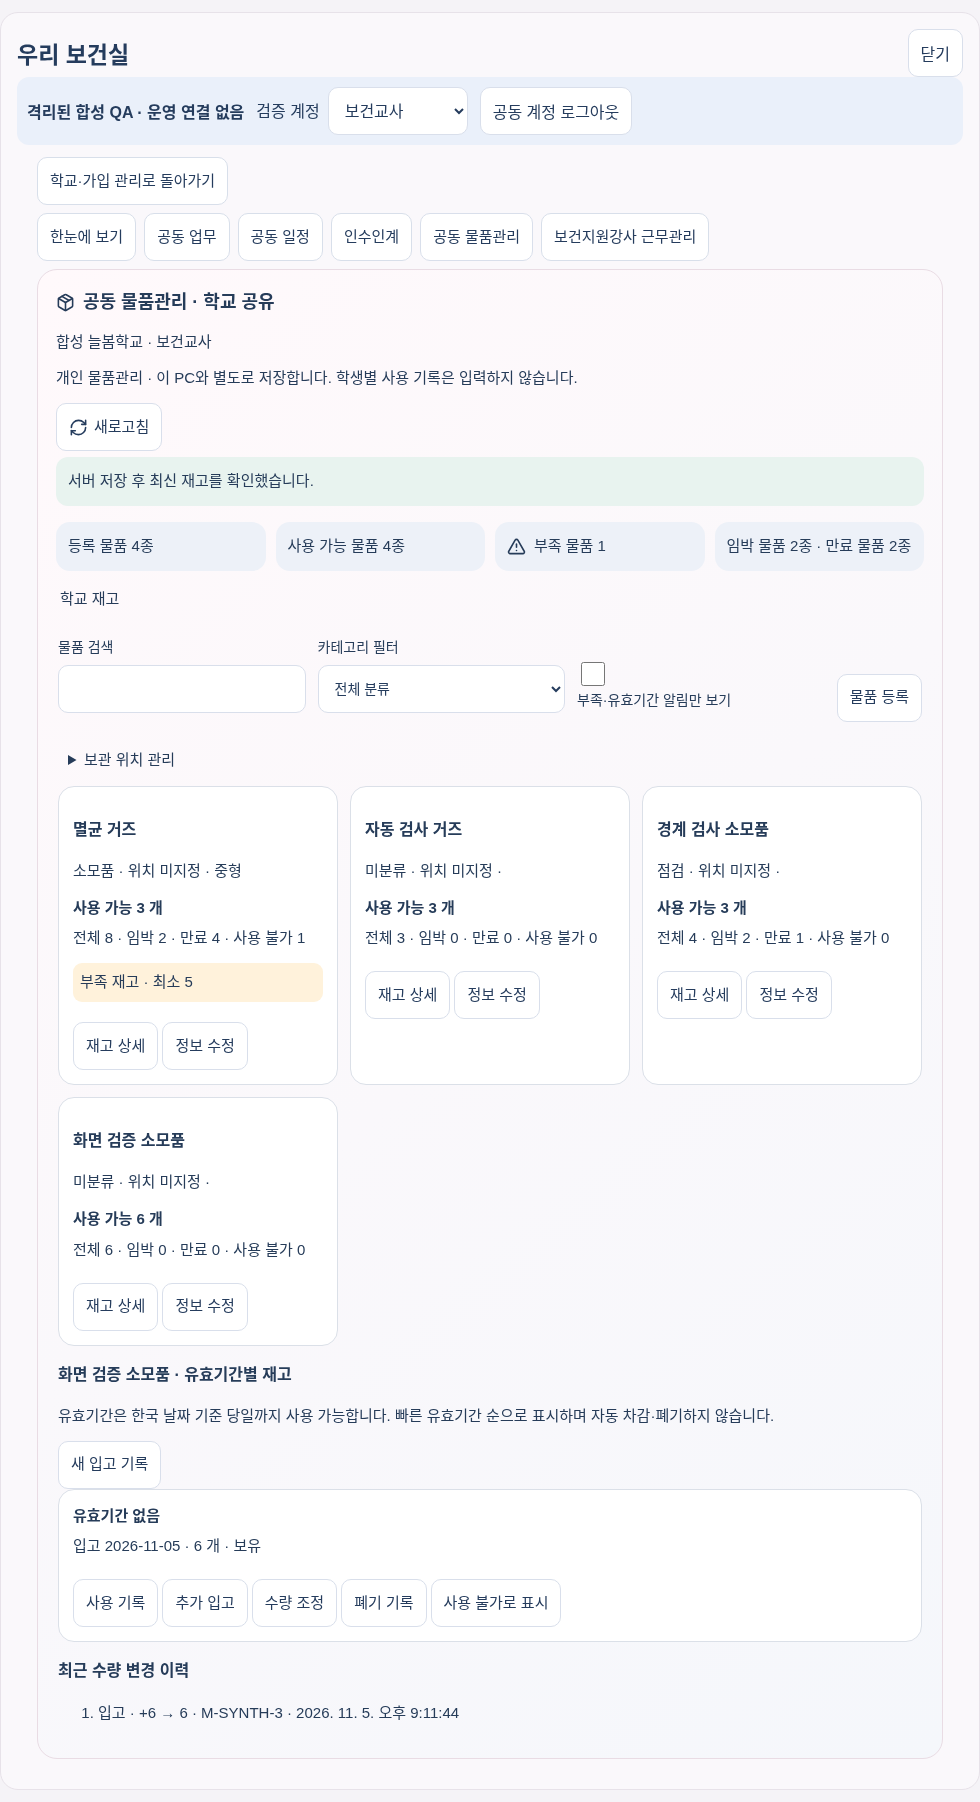
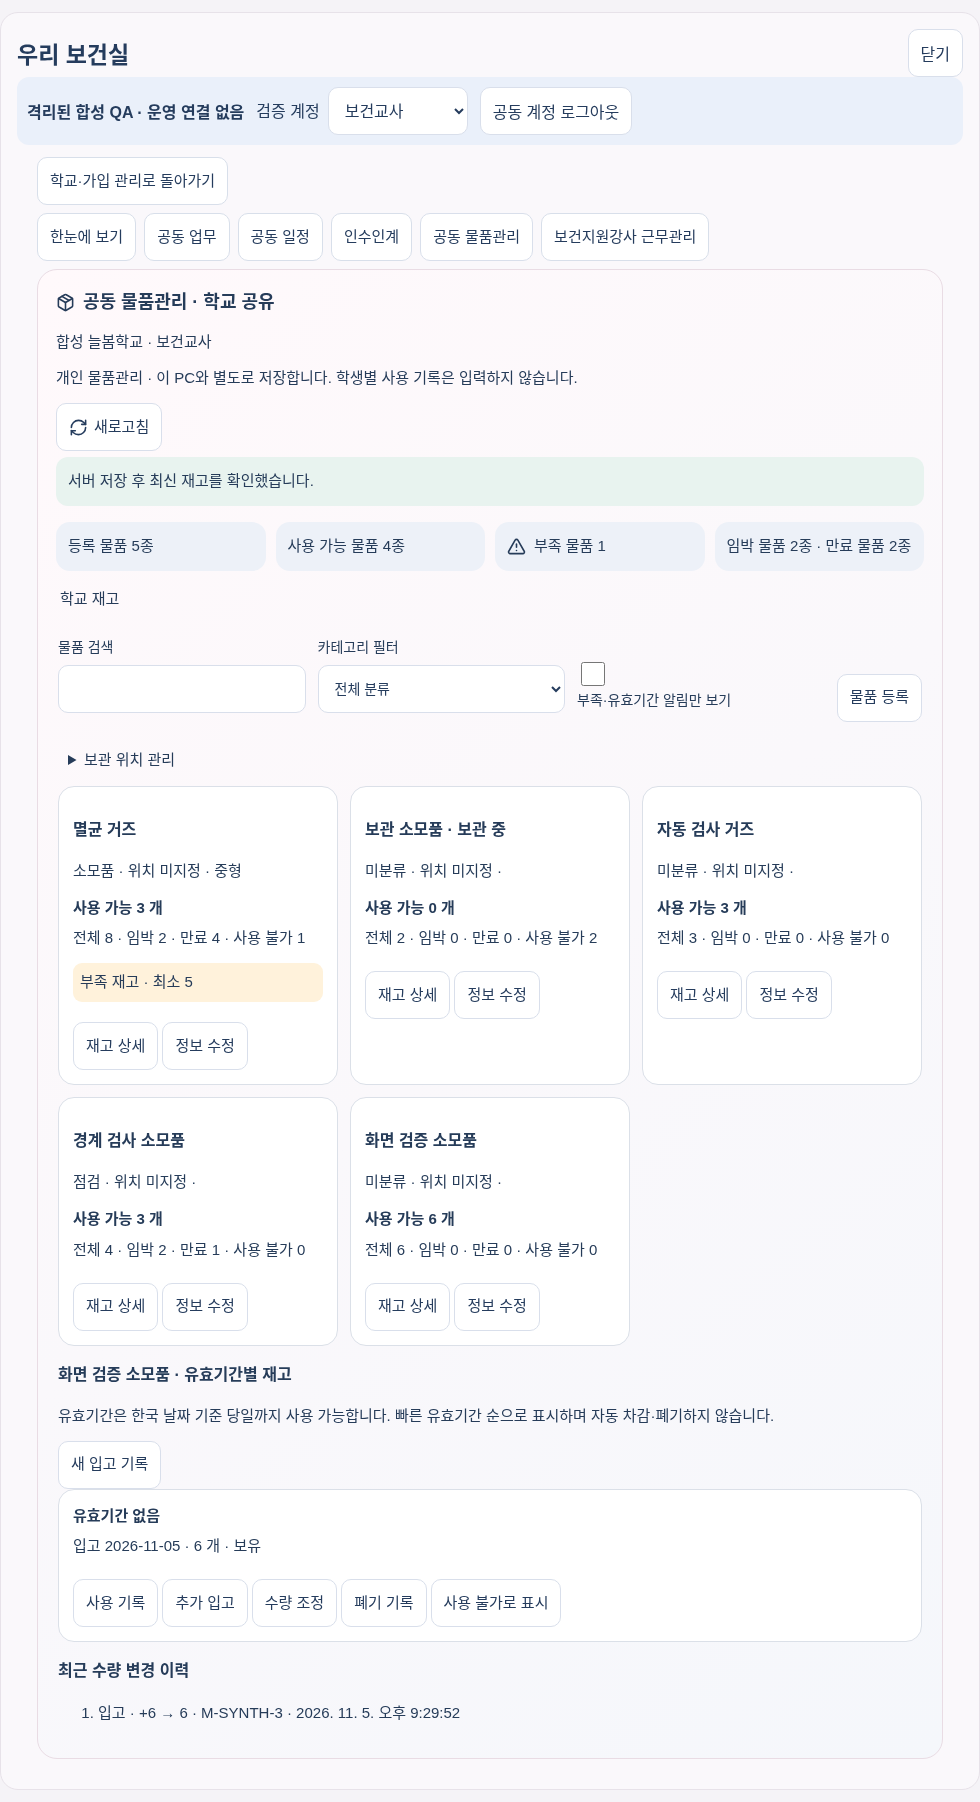
fix(workspace): honor inactive stock and scope assistant history

diff --git a/school-workspace/school07/ui/InventoryWorkspace.tsx b/school-workspace/school07/ui/InventoryWorkspace.tsx
@@ -17,6 +17,6 @@ export function InventoryWorkspace({bridge,school}:{bridge:Bridge;school:string}
  {s.item&&<section aria-label="물품 상세"><h3>{s.item.item_name} · 유효기간별 재고</h3><p>유효기간은 한국 날짜 기준 당일까지 사용 가능합니다. 빠른 유효기간 순으로 표시하며 자동 차감·폐기하지 않습니다.</p>{s.context?.receive&&<button onClick={()=>setMove({action:'receive'})}>새 입고 기록</button>}
  <div className="s07-lots">{s.lots.map(l=><article key={l.lot_id} aria-label={'재고 묶음 '+l.lot_id}><strong>{l.expiry_date?l.expiry_date+' · '+status[l.expiry_status]:status.NONE}</strong><p>입고 {l.received_date} · {l.quantity} {s.item?.unit} · {l.state==='UNUSABLE'?'사용 불가':'보유'}</p>{s.context?.use&&<button disabled={!usable(l)} onClick={()=>setMove({action:'use',lot:l})}>사용 기록</button>}{s.context?.receive&&<button disabled={l.state==='UNUSABLE'} onClick={()=>setMove({action:'receive',lot:l})}>추가 입고</button>}{s.context?.adjust&&<button onClick={()=>setMove({action:'adjust',lot:l})}>수량 조정</button>}{s.context?.dispose&&<button onClick={()=>setMove({action:'dispose',lot:l})}>폐기 기록</button>}{s.context?.manage&&<button onClick={()=>{if(window.confirm('재고 사용 가능 상태를 변경할까요?'))void submit('state',{item_id:s.item!.item_id,lot_id:l.lot_id,state:l.state==='AVAILABLE'?'UNUSABLE':'AVAILABLE'},l.version);}}>{l.state==='AVAILABLE'?'사용 불가로 표시':'사용 가능으로 표시'}</button>}</article>)}</div>
  {move&&<form className="s07-form" onSubmit={transaction}><h4>{({receive:'입고',use:'사용·출고',adjust:'실사 후 수량 조정',dispose:'폐기'}as Record<string,string>)[move.action]}</h4><label>{move.action==='adjust'?'조정 후 수량':'기록 수량'}<input name="quantity" type="number" min={move.action==='adjust'?0:.001} step=".001" max="1000000000" required/></label>{move.action==='receive'&&!move.lot&&<><label>유효기간 (없으면 비워 두기)<input name="expiry" type="date"/></label><label>입고일<input name="received" type="date" defaultValue={s.context?.today} max={s.context?.today}/></label></>}<label>운영 사유 (선택)<input name="reason" maxLength={80}/></label><p>학생·투약·처치·상담 정보는 기록하지 않습니다.</p><button>수량 저장</button><button type="button" onClick={()=>setMove(undefined)}>기록 닫기</button></form>}
- <h3>최근 수량 변경 이력</h3><ol>{s.movements.map(h=><li key={h.movement_id}>{({RECEIVE:'입고',USE:'사용·출고',ADJUST:'수량 조정',DISPOSE:'폐기',STATE:'사용 상태 변경'}as Record<string,string>)[h.type]} · {h.delta>0?'+':''}{h.delta} → {h.quantity_after} · {h.member_code} · {new Date(h.created_at).toLocaleString('ko-KR',{timeZone:'Asia/Seoul'})}{h.reason&&<span> · {h.reason}</span>}</li>)}</ol></section>}
+ <h3>{s.context?.role==='HEALTH_ASSISTANT'?'내 최근 수량 변경 이력':'최근 수량 변경 이력'}</h3><ol>{s.movements.map(h=><li key={h.movement_id}>{({RECEIVE:'입고',USE:'사용·출고',ADJUST:'수량 조정',DISPOSE:'폐기',STATE:'사용 상태 변경'}as Record<string,string>)[h.type]} · {h.delta>0?'+':''}{h.delta} → {h.quantity_after} · {h.member_code} · {new Date(h.created_at).toLocaleString('ko-KR',{timeZone:'Asia/Seoul'})}{h.reason&&<span> · {h.reason}</span>}</li>)}</ol></section>}
  </fieldset></section>;
 }

diff --git a/school-workspace/school07/tests/run.py b/school-workspace/school07/tests/run.py
@@ -43,6 +43,15 @@ def main():
  def create():
   item.update(rpc(1,'create_inventory_item',{'name':'멸균 거즈','category':'소모품','specification':'소형','unit':'개','minimum_quantity':5},0))
  case('admin creates item with zero stock',create)
+ def inactive():
+  inactive_payload={'name':'보관 소모품','category':'','specification':'','unit':'개','minimum_quantity':1,'active':False}
+  x=rpc(3,'create_inventory_item',inactive_payload,0);got=rpc(3,'get_inventory_item',{'item_id':x['item_id']});assert got['active']is False and got['available_quantity']==0 and got['is_low']is False
+  deny(rpc(3,'receive_inventory',{'item_id':x['item_id'],'quantity':1},0,ok=False),'input_rejected')
+  rpc(3,'edit_inventory_item',{**inactive_payload,'active':True,'item_id':x['item_id']},1)
+  rpc(3,'receive_inventory',{'item_id':x['item_id'],'quantity':2},0)
+  rpc(3,'edit_inventory_item',{**inactive_payload,'item_id':x['item_id']},2)
+  got=rpc(3,'get_inventory_item',{'item_id':x['item_id']});assert got['total_quantity']==2 and got['available_quantity']==0 and got['unusable_quantity']==2 and got['soon_quantity']==0
+ case('inactive create is honored and archived holding never appears usable',inactive)
  def locations():
   loc=rpc(3,'save_inventory_location',{'name':'합성 보관함'},0);loc=rpc(3,'save_inventory_location',{'location_id':loc['location_id'],'name':'합성 보관함 변경','active':True},loc['version']);assert any(x['name']=='합성 보관함 변경'for x in rpc(3,'list_inventory_locations'));deny(rpc(4,'save_inventory_location',{'name':'권한 없음'},0,ok=False))
  case('location register/rename uses version; assistant cannot manage',locations)
@@ -55,7 +64,10 @@ def main():
  case('receive increases stock and30day inclusive boundary',receive)
  case('assistant default receive denied',lambda:deny(rpc(4,'receive_inventory',{'item_id':item['item_id'],'quantity':2},0,ok=False)))
  sql("INSERT INTO workspace.membership_permission_overrides VALUES('"+A+"','20000000-0000-0000-0000-000000000004',1,'inventory.use','allow','own')")
- def use():lot.update(rpc(4,'use_inventory',{'item_id':item['item_id'],'lot_id':lot['lot_id'],'quantity':3},lot['version']));assert lot['quantity']==7
+ def use():
+  lot.update(rpc(4,'use_inventory',{'item_id':item['item_id'],'lot_id':lot['lot_id'],'quantity':3},lot['version']));assert lot['quantity']==7
+  mine=rpc(4,'list_inventory_movements',{'item_id':item['item_id']});assert len(mine)==1 and all(h['actor_membership_id']=='20000000-0000-0000-0000-000000000004'for h in mine)
+  assert len(rpc(3,'list_inventory_movements',{'item_id':item['item_id']}))==2
  case('explicit own use permission decreases stock',use)
  case('negative stock denied',lambda:deny(rpc(4,'use_inventory',{'item_id':item['item_id'],'lot_id':lot['lot_id'],'quantity':8},lot['version'],ok=False),'insufficient_stock'))
  case('assistant adjust/dispose forbidden',lambda:(deny(rpc(4,'adjust_inventory',{'item_id':item['item_id'],'lot_id':lot['lot_id'],'quantity':2},lot['version'],ok=False)),deny(rpc(4,'dispose_inventory',{'item_id':item['item_id'],'lot_id':lot['lot_id'],'quantity':2},lot['version'],ok=False))))

diff --git a/school-workspace/school07/REPORT.md b/school-workspace/school07/REPORT.md
@@ -46,13 +46,13 @@ Asia/Seoul 오늘 기준. 유효기간 당일까지 사용 가능, 어제 만료
 
 ## 6. 역할별 권한
 
-Admin/Teacher 관리·입고·사용·조정·폐기. Assistant 기본 조회만, inventory.receive/use 명시 allow+own scope일 때 본인 거래만. deny 우선. 관리/조정/폐기 allow를 넣어도 Assistant 상한은 유지된다. A학교 교사 권한이 B학교 지원강사 권한을 덮어쓰지 않는다. pending·정지·만료·학교/계정 회수 시 매 요청 재인가. 개별 permission 관리 UI/운영 부여 RPC는 새로 만들지 않았고 합성 fixture만 사용했다. 실제 승인된 부여 절차 전에는 지원강사 쓰기 기본 비활성이다.
+Admin/Teacher 관리·입고·사용·조정·폐기. Assistant 기본 재고 조회·현재 epoch 본인 거래 이력만, inventory.receive/use 명시 allow+own scope일 때 본인 거래만. deny 우선. 관리/조정/폐기 allow를 넣어도 Assistant 상한은 유지된다. A학교 교사 권한이 B학교 지원강사 권한을 덮어쓰지 않는다. pending·정지·만료·학교/계정 회수 시 매 요청 재인가. 개별 permission 관리 UI/운영 부여 RPC는 새로 만들지 않았고 합성 fixture만 사용했다. 실제 승인된 부여 절차 전에는 지원강사 쓰기 기본 비활성이다.
 
 ## 7. 보안·동시성·멱등성 검증
 
 | 스위트/분류 | PASS | FAIL | 한계 |
 |---|---:|---:|---|
-| 신규 수량·권한 LOCAL DB | 35 | 0 | 실제 PG17.6, 합성 사용자/학교 |
+| 신규 수량·권한 LOCAL DB | 36 | 0 | 실제 PG17.6, 합성 사용자/학교 |
 | 신규 설치/권한 상한/close/드리프트 LOCAL DB | 9 | 0 | 새 public wrapper 드리프트도 거부 |
 | LOCAL POSTGREST | 7 | 0 | 실제13.0.4 HTTP, 합성 HS256/Auth |
 | 신규 상태·UI·IPC | 6 | 0 | LOCAL DB+React/jsdom1, MOCK5 |
@@ -67,7 +67,7 @@ Admin/Teacher 관리·입고·사용·조정·폐기. Assistant 기본 조회만
 | 정적 생성/원본 보호 | 9 | 0 | 개인 소스15개 byte 동일 |
 | WINDOWS REAL / HOSTED SUPABASE | NOT RUN | — | 실제 연결/배포 없음 |
 
-중복 실행은 새 고유 시나리오 수에 합산하지 않는다. 각 스위트는 서로 겹치는 동작을 포함할 수 있어 총합을 고유 업무 시나리오 수로 주장하지 않는다. 마지막 위치 epoch FK 보강 후 영향받는 새 SQL/상태/UI 테스트를 재실행했으며 기존 기능 SQL/권한 규칙의 무관한 수정은 없다.
+중복 실행은 새 고유 시나리오 수에 합산하지 않는다. 각 스위트는 서로 겹치는 동작을 포함할 수 있어 총합을 고유 업무 시나리오 수로 주장하지 않는다. 마지막 위치 epoch FK 및 비활성 물품 가용량 보강 후 영향받는 새 SQL/상태/UI 테스트를 재실행했으며 기존 기능 SQL/권한 규칙의 무관한 수정은 없다.
 
 ## 8. Electron/Web 화면
 

diff --git a/school-workspace/school07/QA_FIX_LOG.md b/school-workspace/school07/QA_FIX_LOG.md
@@ -10,6 +10,8 @@
 | 기존 Preload 허용 목록에 inventory 누락 | 승인된 고정 inventory 키 추가, 메서드·IPC·범용 API 금지 검사 유지 | 1 | 기존 경계12 PASS |
 | REST 격리 테스트 사용자가 A/B 모두 승인됨 | A-only 합성 사용자4로 부정 검사, 다중 소속자는 학교별 역할 상한 별도 검사 | 1 | 실제 LOCAL POSTGREST 거부 PASS |
 | 기존 parent 지문에 새 public inventory 함수가 포함 안 됨 | 별도 child 장부·정확한15개 공개 함수 지문/ACL 범위, 기존 장부 불변 | 1 | 공개 wrapper 드리프트/close/replay PASS |
+| 비활성 등록값 누락 및 보관 물품 가용량 표시 불일치 | active 입력 저장, 보관 시 전체 수량 유지·가용0·사용불가 표시 | 1 | 실제 등록/전환/입고 거부 재검증 |
+| 지원강사 본인 이력 범위 명시 | movement SELECT를 현재 membership/epoch 본인으로 제한, 관리자·교사는 학교 전체 이력 유지 | 1 | 실제 RLS 본인/교사 이력 검사 |
 | 기존 root13 오류/SheetJS cache 없음 | 기준 SHA 재현·공식 CDN 확인, 기존 제품/의존성 버전은 변경 안 함 | 0 (분리) | root 기존 실패, 전체 Electron 환경 BLOCKED |
 
 여러 기능을 구축하는 중의 예비 실행과 최종 실행을 구분한다. 수정 없는 반복 결과를 새 고유 시나리오 수로 합산하지 않는다. 보안 검사를 줄이거나 RLS를 끄지 않았다. 기존 로그 일부의 말미 공백은 Git whitespace 검사를 위해 정리한다.
